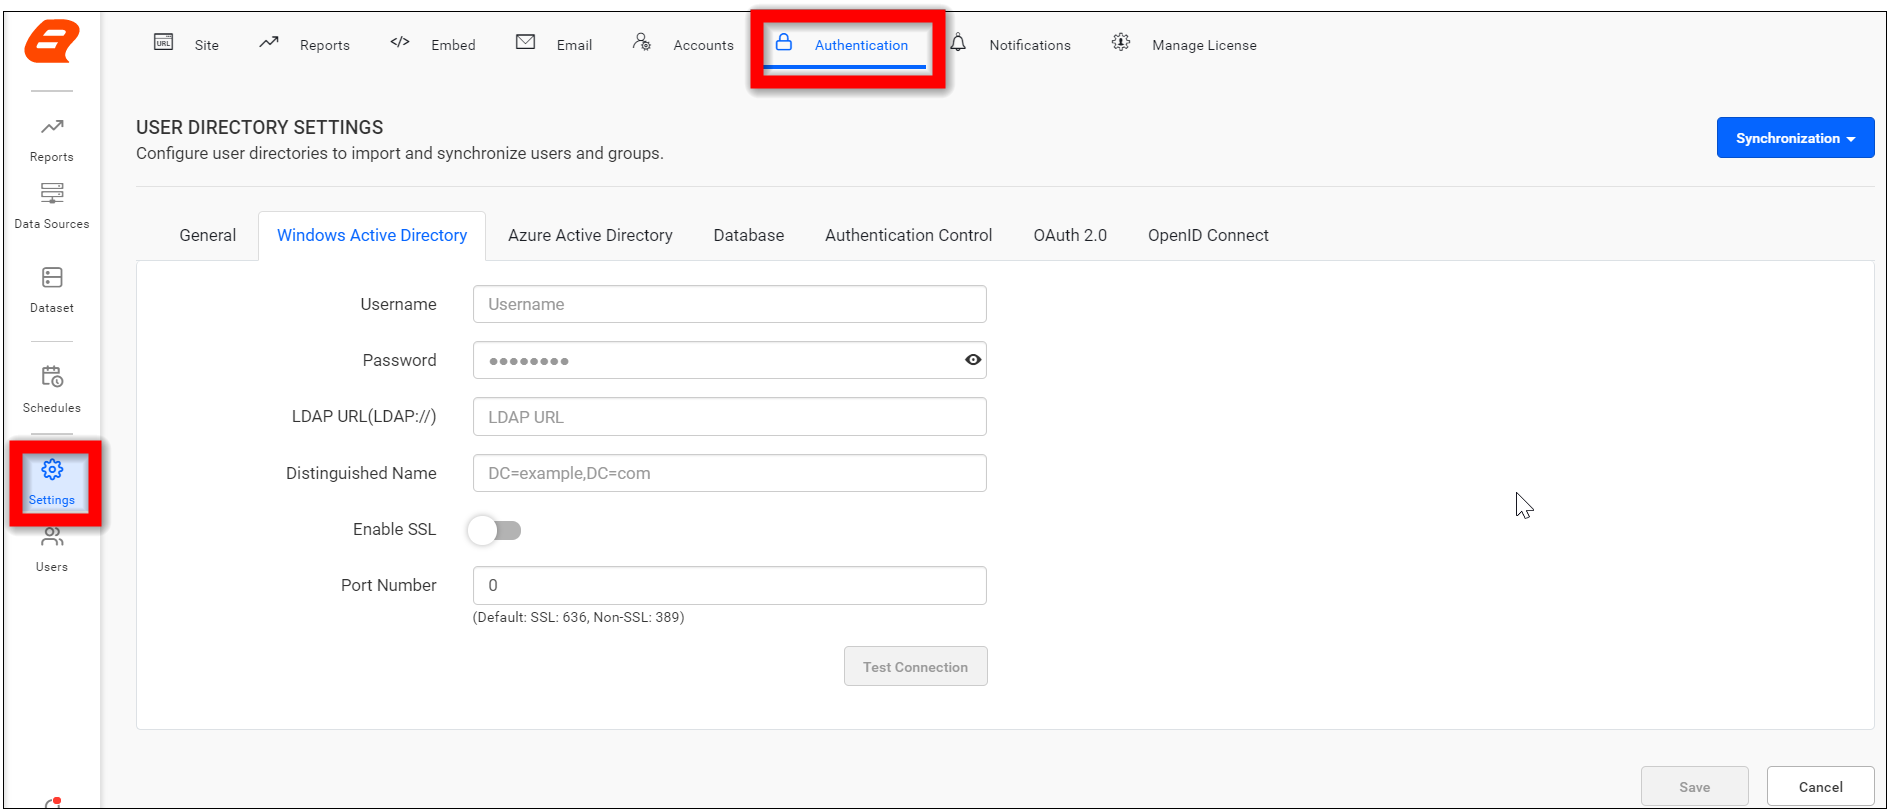
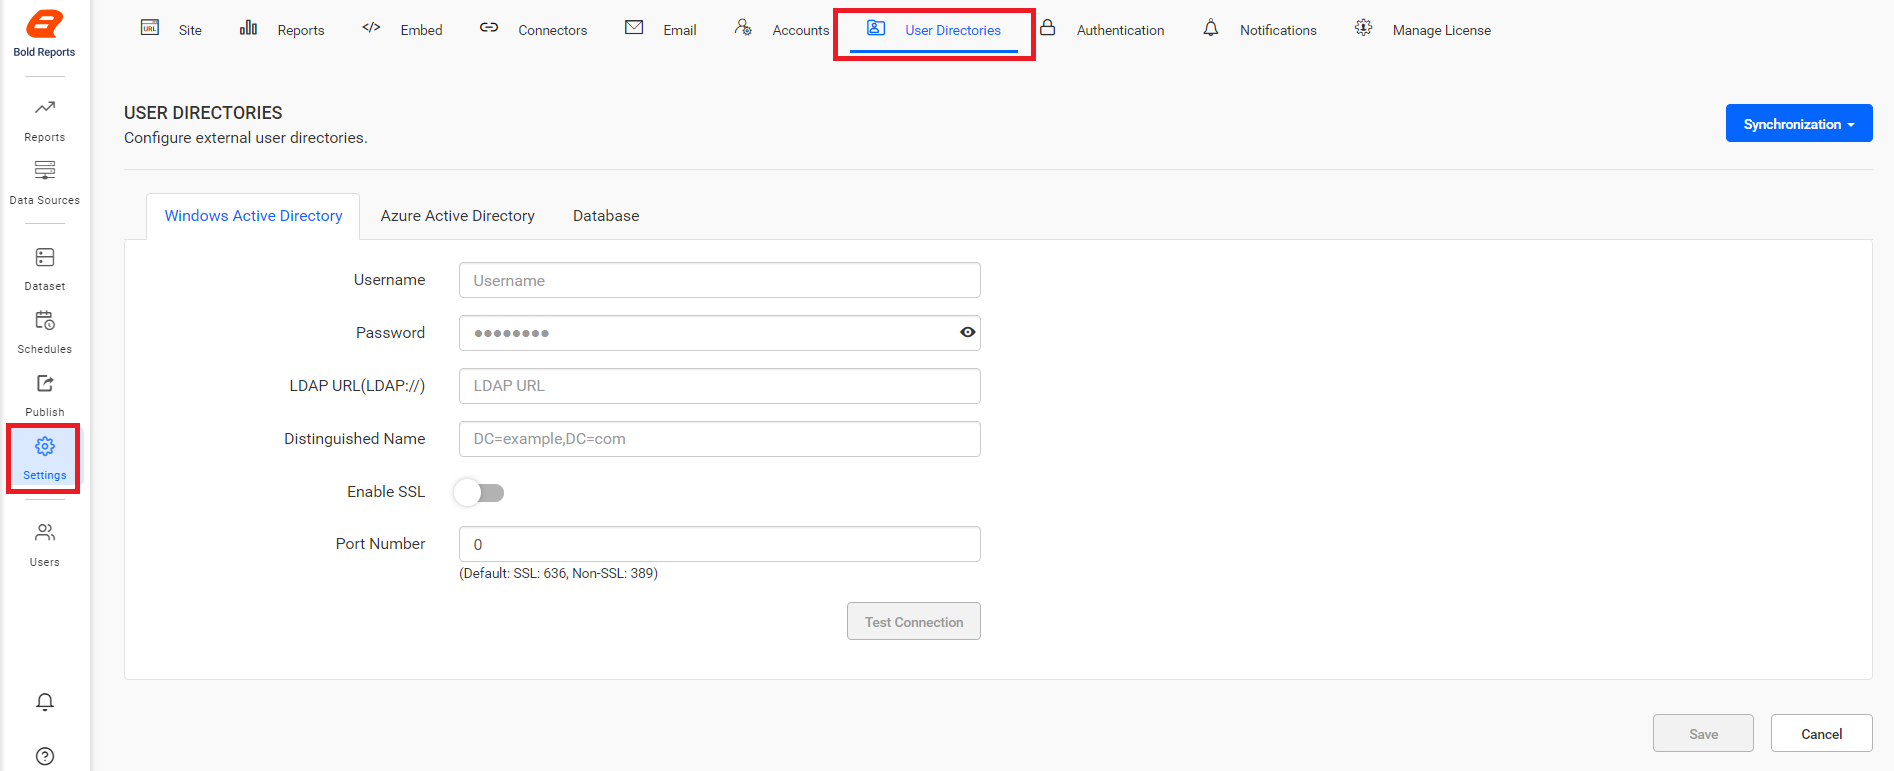
documentation(Report-397580): Revamped the AD related changes

diff --git a/docs/administrator-guide/manage-app-settings/active-directory.md b/docs/administrator-guide/manage-app-settings/active-directory.md
@@ -10,7 +10,7 @@ documentation: ug
 
 You should configure the Active Directory settings to import users and groups from the Windows Active Directory and synchronize their details after importing into the Bold Reports On-Premise. To configure [Active Directory](https://msdn.microsoft.com/en-us/library/windows/desktop/aa746492) with the Bold Reports On-Premise, follow these steps:
 
-1. Click the setting option in the Report Server left-side panel and navigate to the AUTHENTICATION tab, and then select **Windows Active Directory** as shown in the following image.
+1. Click the setting option in the Report Server left-side panel and navigate to the User Directories tab, and then select **Windows Active Directory** as shown in the following image.
 ![Active Directory Settings](/static/assets/on-premise/images/settings/windows-active-directory-settings.png)
 
 2. Set the following Active Directory details of your Windows Active Directory.

diff --git a/docs/administrator-guide/faq/where-should-i-replace-the-bold-reports-license-key-in-bold-reports-azure-app-service.md b/docs/administrator-guide/faq/where-should-i-replace-the-bold-reports-license-key-in-bold-reports-azure-app-service.md
@@ -15,7 +15,7 @@ By default, the Bold Reports Azure App Service will have an expired license key.
 3. Choose the `App Service editor` under the Development tool in the options as follows.
    ![App Service Editor](/static/assets/on-premise/images/faq/app-service-editor.png)
 4. Now, the deployed files will be displayed.
-5. Navigate to this location `/site/wwwroot/Report Server/Configuration/BoldLicense.txt` and replace your license key.
+5. Navigate to this location `wwwroot/reporting/web/configuration/boldlicense.txt` and replace your license key.
 6. Then, start the Bold Reports Azure App Service.
 
 ## See also
